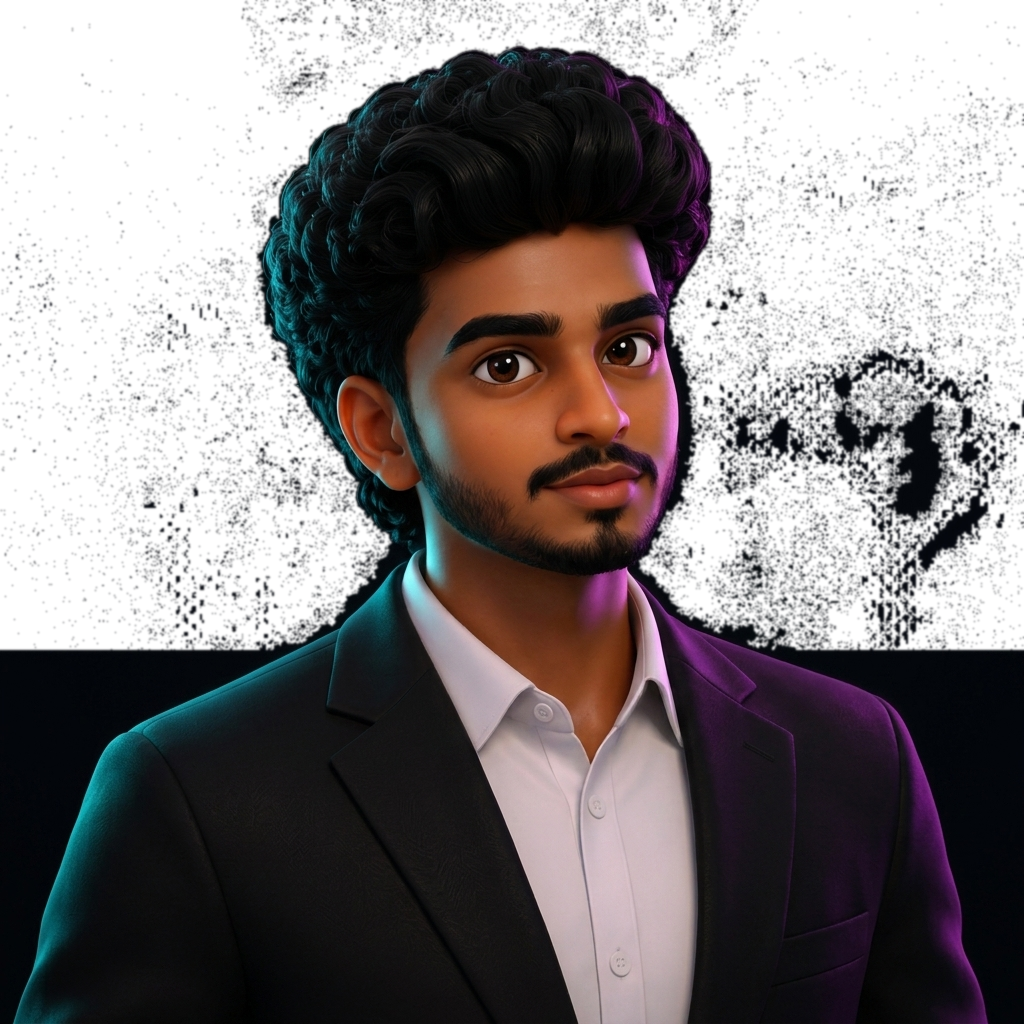
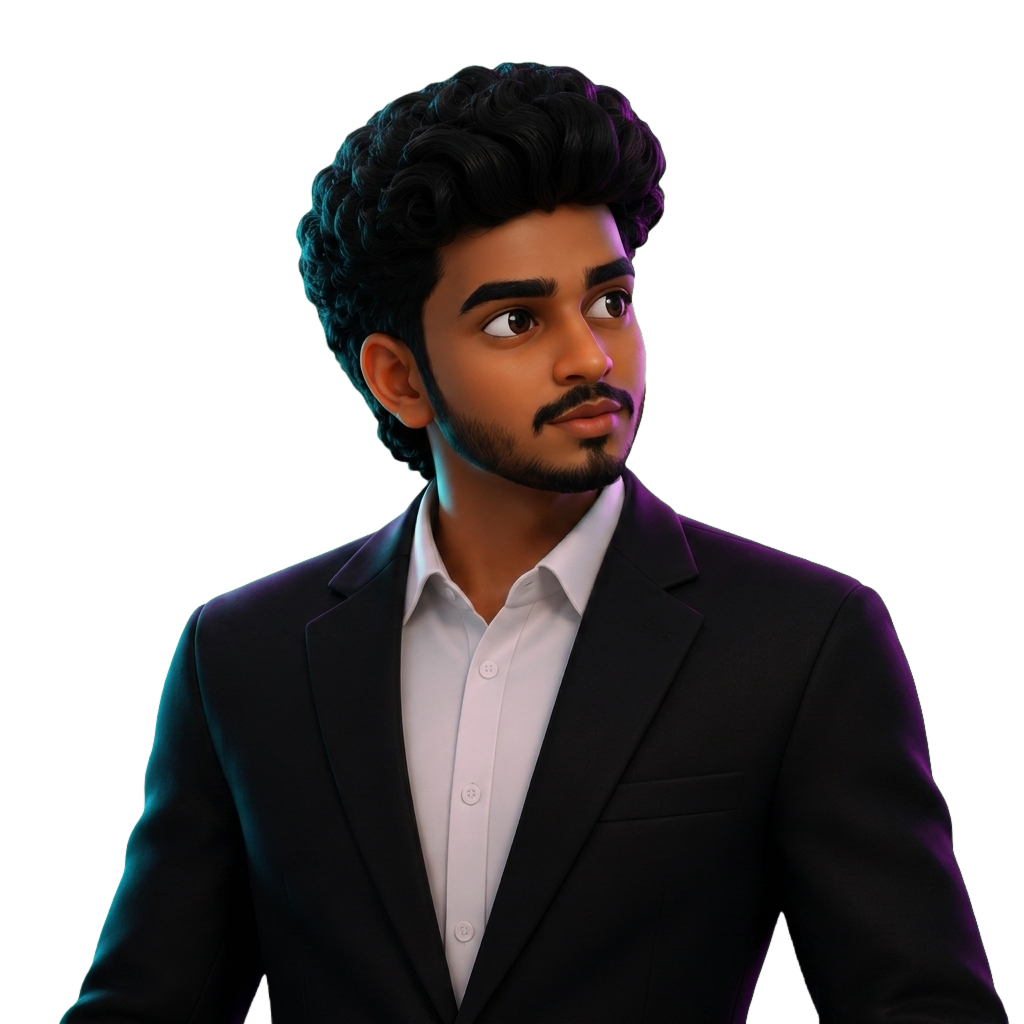
fix: remove dark background box completely with transparent cutout and apply subtle refined 3D movement

diff --git a/src/components/hero/HeroAvatarCanvas.jsx b/src/components/hero/HeroAvatarCanvas.jsx
@@ -26,12 +26,12 @@ const HeroAvatarCanvas = () => {
     // 1. Scene
     const scene = new THREE.Scene();
 
-    // 2. Camera Setup - Focused close on character portrait
+    // 2. Camera Setup - Balanced portrait framing
     const aspect = width / height;
-    const camera = new THREE.PerspectiveCamera(26, aspect, 0.1, 1000);
+    const camera = new THREE.PerspectiveCamera(24, aspect, 0.1, 1000);
     camera.position.set(0, 0, 18);
 
-    // 3. WebGL Renderer (High performance, crisp rendering)
+    // 3. WebGL Renderer
     const renderer = new THREE.WebGLRenderer({
       alpha: true,
       antialias: true,
@@ -41,7 +41,7 @@ const HeroAvatarCanvas = () => {
     renderer.setPixelRatio(Math.min(window.devicePixelRatio, 2));
     renderer.outputColorSpace = THREE.SRGBColorSpace;
     renderer.toneMapping = THREE.ACESFilmicToneMapping;
-    renderer.toneMappingExposure = 1.05;
+    renderer.toneMappingExposure = 1.0;
 
     container.appendChild(renderer.domElement);
 
@@ -52,9 +52,9 @@ const HeroAvatarCanvas = () => {
 
     let characterMesh = null;
 
-    // Load master high-definition character asset
+    // Load flawless transparent PNG
     textureLoader.load(
-      '/models/karthick_avatar.jpg',
+      '/models/karthick_avatar_transparent.png',
       (texture) => {
         texture.colorSpace = THREE.SRGBColorSpace;
         texture.generateMipmaps = true;
@@ -62,42 +62,17 @@ const HeroAvatarCanvas = () => {
         texture.magFilter = THREE.LinearFilter;
 
         // Plane dimensions matching character portrait aspect ratio
-        const planeGeom = new THREE.PlaneGeometry(8.2, 8.2);
-        
-        // Custom Shader for seamless dark edge blending without distorting character
-        const material = new THREE.ShaderMaterial({
-          uniforms: {
-            uTexture: { value: texture },
-            uMouse: { value: new THREE.Vector2(0, 0) },
-          },
-          vertexShader: `
-            varying vec2 vUv;
-            void main() {
-              vUv = uv;
-              gl_Position = projectionMatrix * modelViewMatrix * vec4(position, 1.0);
-            }
-          `,
-          fragmentShader: `
-            varying vec2 vUv;
-            uniform sampler2D uTexture;
-            uniform vec2 uMouse;
-
-            void main() {
-              vec4 color = texture2D(uTexture, vUv);
-              
-              // Soft border vignette to merge seamlessly with #050507 background
-              vec2 edge = min(vUv, 1.0 - vUv);
-              float fade = smoothstep(0.0, 0.05, min(edge.x, edge.y));
-              
-              gl_FragColor = vec4(color.rgb, color.a * fade);
-            }
-          `,
+        const planeGeom = new THREE.PlaneGeometry(7.6, 7.6);
+        const material = new THREE.MeshBasicMaterial({
+          map: texture,
           transparent: true,
+          alphaTest: 0.01,
+          depthWrite: false,
           side: THREE.DoubleSide,
         });
 
         characterMesh = new THREE.Mesh(planeGeom, material);
-        characterMesh.position.set(0, -0.4, 0);
+        characterMesh.position.set(0, -0.2, 0);
         characterGroup.add(characterMesh);
 
         setIsLoading(false);
@@ -114,16 +89,17 @@ const HeroAvatarCanvas = () => {
     const handleMouseMove = (e) => {
       const x = (e.clientX / window.innerWidth) * 2 - 1;
       const y = -(e.clientY / window.innerHeight) * 2 + 1;
-      mousePos.current.targetX = Math.max(-1.0, Math.min(1.0, x));
-      mousePos.current.targetY = Math.max(-1.0, Math.min(1.0, y));
+      // Clamped smooth input range
+      mousePos.current.targetX = Math.max(-0.85, Math.min(0.85, x));
+      mousePos.current.targetY = Math.max(-0.85, Math.min(0.85, y));
     };
 
     const handleTouchMove = (e) => {
       if (e.touches && e.touches[0]) {
         const x = (e.touches[0].clientX / window.innerWidth) * 2 - 1;
         const y = -(e.touches[0].clientY / window.innerHeight) * 2 + 1;
-        mousePos.current.targetX = Math.max(-1.0, Math.min(1.0, x));
-        mousePos.current.targetY = Math.max(-1.0, Math.min(1.0, y));
+        mousePos.current.targetX = Math.max(-0.85, Math.min(0.85, x));
+        mousePos.current.targetY = Math.max(-0.85, Math.min(0.85, y));
       }
     };
 
@@ -144,13 +120,13 @@ const HeroAvatarCanvas = () => {
       camera.aspect = w / h;
 
       if (w < 640) {
-        camera.fov = 32;
-        camera.position.set(0, -0.2, 17.5);
+        camera.fov = 30;
+        camera.position.set(0, -0.15, 17.5);
       } else if (w < 1024) {
-        camera.fov = 28;
+        camera.fov = 26;
         camera.position.set(0, -0.1, 18.0);
       } else {
-        camera.fov = 26;
+        camera.fov = 24;
         camera.position.set(0, 0, 18.0);
       }
 
@@ -162,7 +138,7 @@ const HeroAvatarCanvas = () => {
     const resizeObserver = new ResizeObserver(handleResize);
     resizeObserver.observe(container);
 
-    // 7. Animation Loop with Solid 3D Perspective Rotation & Parallax
+    // 7. Animation Loop with Subtle, Refined 3D Mouse Tracking
     let animationFrameId;
     const clock = new THREE.Clock();
     let isVisible = true;
@@ -180,28 +156,28 @@ const HeroAvatarCanvas = () => {
       const elapsedTime = clock.getElapsedTime();
 
       // Smooth Spring-Damped Lerping of mouse position
-      mousePos.current.x += (mousePos.current.targetX - mousePos.current.x) * 0.065;
-      mousePos.current.y += (mousePos.current.targetY - mousePos.current.y) * 0.065;
+      mousePos.current.x += (mousePos.current.targetX - mousePos.current.x) * 0.05;
+      mousePos.current.y += (mousePos.current.targetY - mousePos.current.y) * 0.05;
 
       const mx = mousePos.current.x;
       const my = mousePos.current.y;
 
-      // Natural idle breathing motion (clean vertical float, no texture warping)
-      const breathingHover = Math.sin(elapsedTime * 1.4) * 0.06;
-      const breathingSway = Math.sin(elapsedTime * 0.8) * 0.01;
+      // Subtle, gentle idle breathing motion
+      const breathingHover = Math.sin(elapsedTime * 1.3) * 0.04;
+      const breathingSway = Math.sin(elapsedTime * 0.7) * 0.006;
 
-      // Solid 3D Perspective Tilt & Rotation tracking the cursor
+      // Refined, subtle 3D perspective rotation (not exaggerated)
       if (characterGroup) {
-        characterGroup.rotation.y = THREE.MathUtils.lerp(characterGroup.rotation.y, mx * 0.18 + breathingSway, 0.08);
-        characterGroup.rotation.x = THREE.MathUtils.lerp(characterGroup.rotation.x, -my * 0.12, 0.08);
-        characterGroup.rotation.z = THREE.MathUtils.lerp(characterGroup.rotation.z, -mx * 0.02, 0.08);
-        characterGroup.position.x = THREE.MathUtils.lerp(characterGroup.position.x, mx * 0.35, 0.06);
-        characterGroup.position.y = THREE.MathUtils.lerp(characterGroup.position.y, my * 0.2 + breathingHover - 0.2, 0.06);
+        characterGroup.rotation.y = THREE.MathUtils.lerp(characterGroup.rotation.y, mx * 0.09 + breathingSway, 0.06);
+        characterGroup.rotation.x = THREE.MathUtils.lerp(characterGroup.rotation.x, -my * 0.06, 0.06);
+        characterGroup.rotation.z = THREE.MathUtils.lerp(characterGroup.rotation.z, -mx * 0.015, 0.06);
+        characterGroup.position.x = THREE.MathUtils.lerp(characterGroup.position.x, mx * 0.2, 0.05);
+        characterGroup.position.y = THREE.MathUtils.lerp(characterGroup.position.y, my * 0.12 + breathingHover - 0.15, 0.05);
       }
 
       // Subtle Camera Tracking
-      camera.position.x = THREE.MathUtils.lerp(camera.position.x, mx * 0.45, 0.05);
-      camera.position.y = THREE.MathUtils.lerp(camera.position.y, my * 0.25, 0.05);
+      camera.position.x = THREE.MathUtils.lerp(camera.position.x, mx * 0.25, 0.04);
+      camera.position.y = THREE.MathUtils.lerp(camera.position.y, my * 0.15, 0.04);
       camera.lookAt(0, 0, 0);
 
       renderer.render(scene, camera);
@@ -245,10 +221,6 @@ const HeroAvatarCanvas = () => {
           </div>
         </div>
       )}
-
-      {/* Atmospheric Rim Glow behind character */}
-      <div className="absolute top-1/2 left-1/2 -translate-x-1/2 -translate-y-1/2 w-[520px] h-[620px] bg-cyan-500/[0.12] dark:bg-cyan-400/[0.14] rounded-full blur-[120px] pointer-events-none z-0" />
-      <div className="absolute top-1/3 left-1/2 -translate-x-1/2 -translate-y-1/2 w-[420px] h-[420px] bg-purple-600/[0.1] rounded-full blur-[130px] pointer-events-none z-0" />
     </div>
   );
 };
